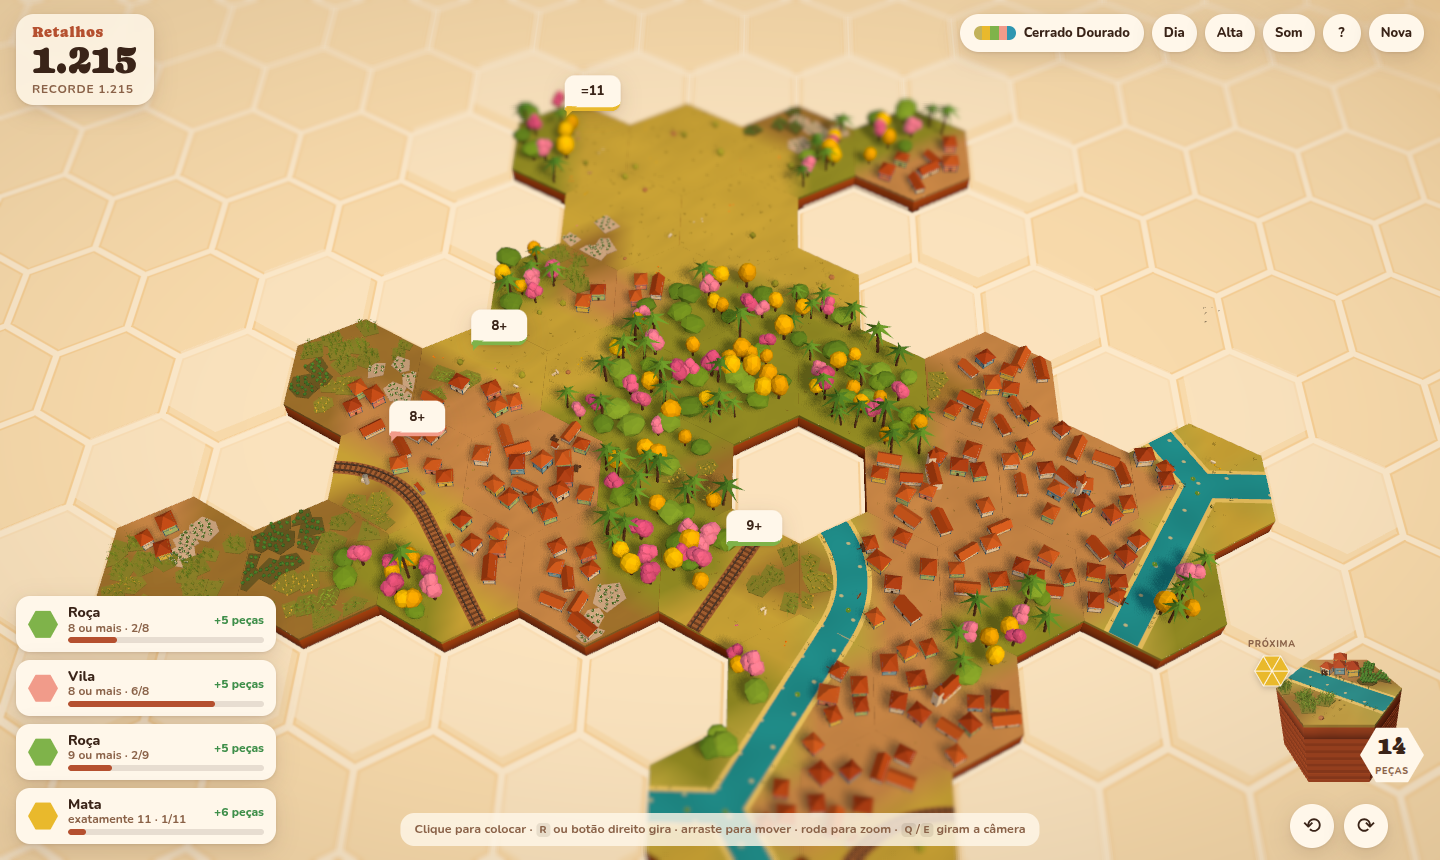
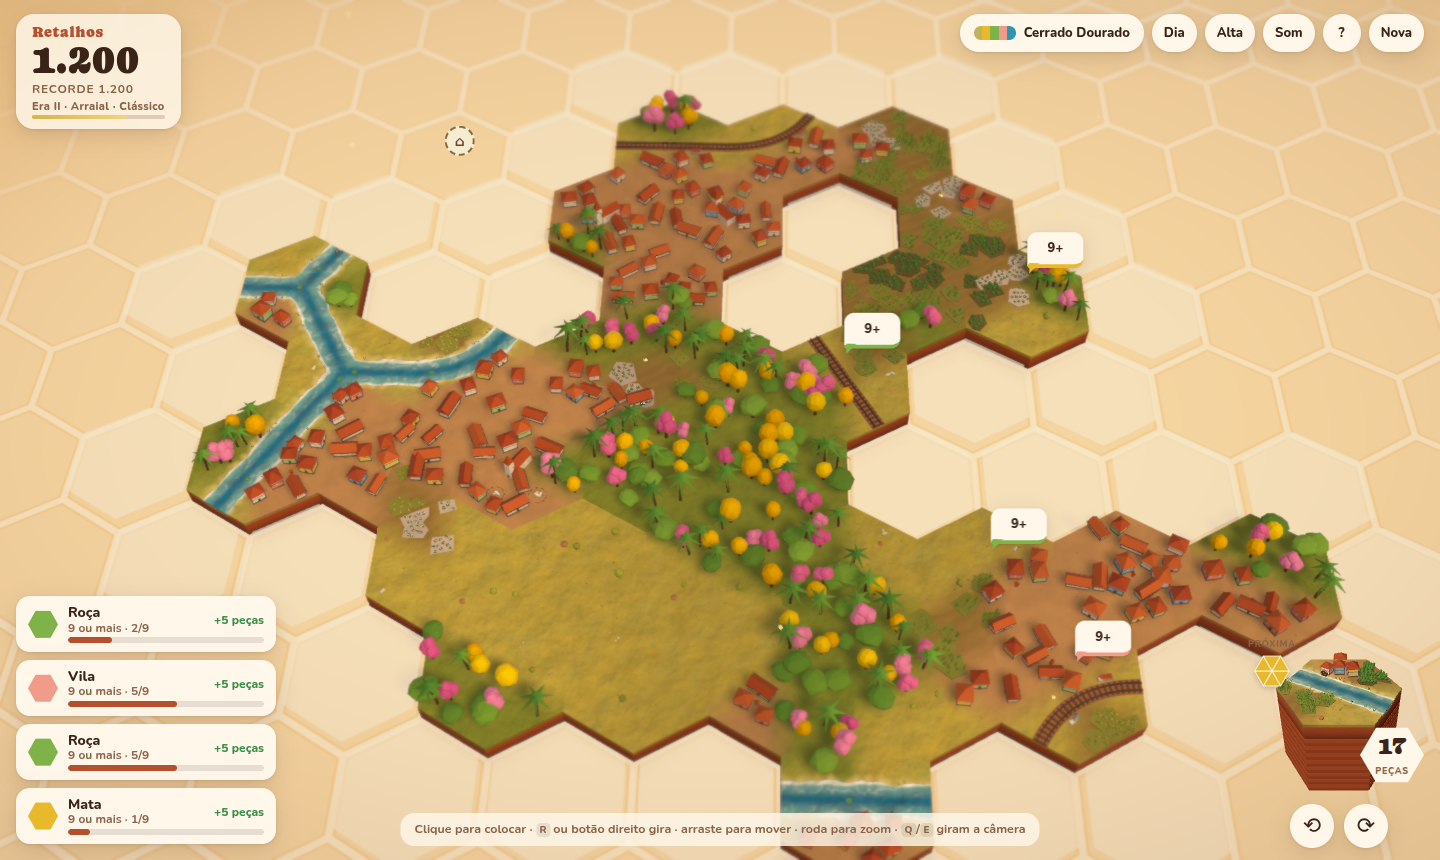
Atualiza capturas e documenta a v4
As capturas de docs/screens mostram o novo visual (WebGPU, céu, rios
escavados, vilas com trilhas, clima). O roteiro de capturas espera mais
para o TRAA e o GTAO convergirem no SwiftShader. VIABILIDADE ganha a
seção 14 com as decisões e medições desta evolução.

Claude-Session: https://claude.ai/code/session_013T9EdaNMztUDp81iNKipQD

diff --git a/docs/VIABILIDADE.md b/docs/VIABILIDADE.md
@@ -320,6 +320,36 @@ Na lista priorizada do [TEMAS.md](TEMAS.md), burro/mula e búfalo já entraram (
 
 ---
 
+---
+
+## 14. Evolução v4: polimento visual máximo e mecânicas novas
+
+**Pedido:** testar o máximo de polimento visual possível (animação, serrilhado, qualidade de pixel, gráficos), mesmo migrando de tecnologia, e ter liberdade para mudar, aprofundar e criar versões alternativas das regras. Um agente em paralelo pesquisou Age of Empires em busca de ideias ([IDEIAS_AOE.md](IDEIAS_AOE.md)).
+
+**Decisão de tecnologia.** Migramos do `WebGLRenderer` para o **`WebGPURenderer` do three.js r186**, com materiais em TSL. Onde o navegador não tem WebGPU, o three usa WebGL2 sozinho, com os mesmos materiais. Trocar de engine (Unity, Godot, Babylon) não traria um teto visual maior para arte procedural e perderia o HTML único. O que o WebGPU destrava:
+
+| Recurso | Como entrou |
+|---|---|
+| Oclusão ambiente (GTAO) | normais na mesma passada (MRT), filtro de ruído que respeita profundidade |
+| Antisserrilhado temporal (TRAA) | vetores de movimento corretos inclusive para o vento nas plantas (`positionPrevious`) |
+| Profundidade de campo real | foco no ponto que a câmera olha: efeito maquete sem a faixa fixa do tilt-shift antigo |
+| Bloom | janelas acesas, cintilar do sol na água, faíscas |
+| Luz por imagem (IBL) | céu procedural refeito quando a hora do dia muda |
+| Sombras suaves | filtro próprio 4×4 com comparação bilinear (o PCF padrão deixava ruído fixo) |
+
+**Visual novo:**
+- rios com leito escavado, margens inclinadas e onduladas, cor por profundidade, espuma, correnteza que desce de peça em peça e cintilar do sol;
+- chão com detalhe por terreno (manchas no prado, folhas na mata, sulcos na terra, pedrinhas na vila), laterais com estratos;
+- vilas com terra batida, trilhas até uma praça e poço; telhados com fiadas de telha e beiral;
+- clima por tema no shader (neve, pétalas, folhas, poeira, pólen), vaga-lumes à noite, fumaça e poeira em sprites macios;
+- onda no chão quando a peça assenta, quique, fantasma que inclina, construções de interação que sobem com som de martelo.
+
+**Mecânicas novas** (todas com oráculo independente nos testes): eras da vila (+3 peças por era), sítios escondidos (ruína, tesouro, relíquia, mirante), bônus de "civilização" por tema, desfazer e quatro modos (Clássico, Zen, Desafio do dia, Exploradores). Save v4.
+
+**Custo.** Com 300 peças em renderização por software: 106 draw calls (+11%) e 1,45 M de triângulos (+6%) no perfil Alta. A CPU por quadro medida no SwiftShader subiu, mas o profiler mostra quase tudo em escrita de buffers e envio de comandos disputando CPU com o rasterizador por software. **A medição em GPU real (`?stress=1000&debug`) continua sendo o próximo passo**; o modo Auto desce de Ultra para Alta, Média e Baixa se o quadro passar de ~26 ms.
+
+**Ainda não feito, do documento do AoE:** Centro que evolui com a era, arquitetura que muda por era, aldeões trabalhando, maravilha, vazio como mapa antigo, minimapa, trilha sonora por era.
+
 ## Apêndice A: revisão de código e QA pelo Sonnet
 
 Um segundo agente (Sonnet) revisou o código sem editá-lo, escreveu testes próprios e reportou achados com cenário de falha e correção sugerida. Todas as correções foram aplicadas e **conferidas de novo com os próprios testes do revisor**.
